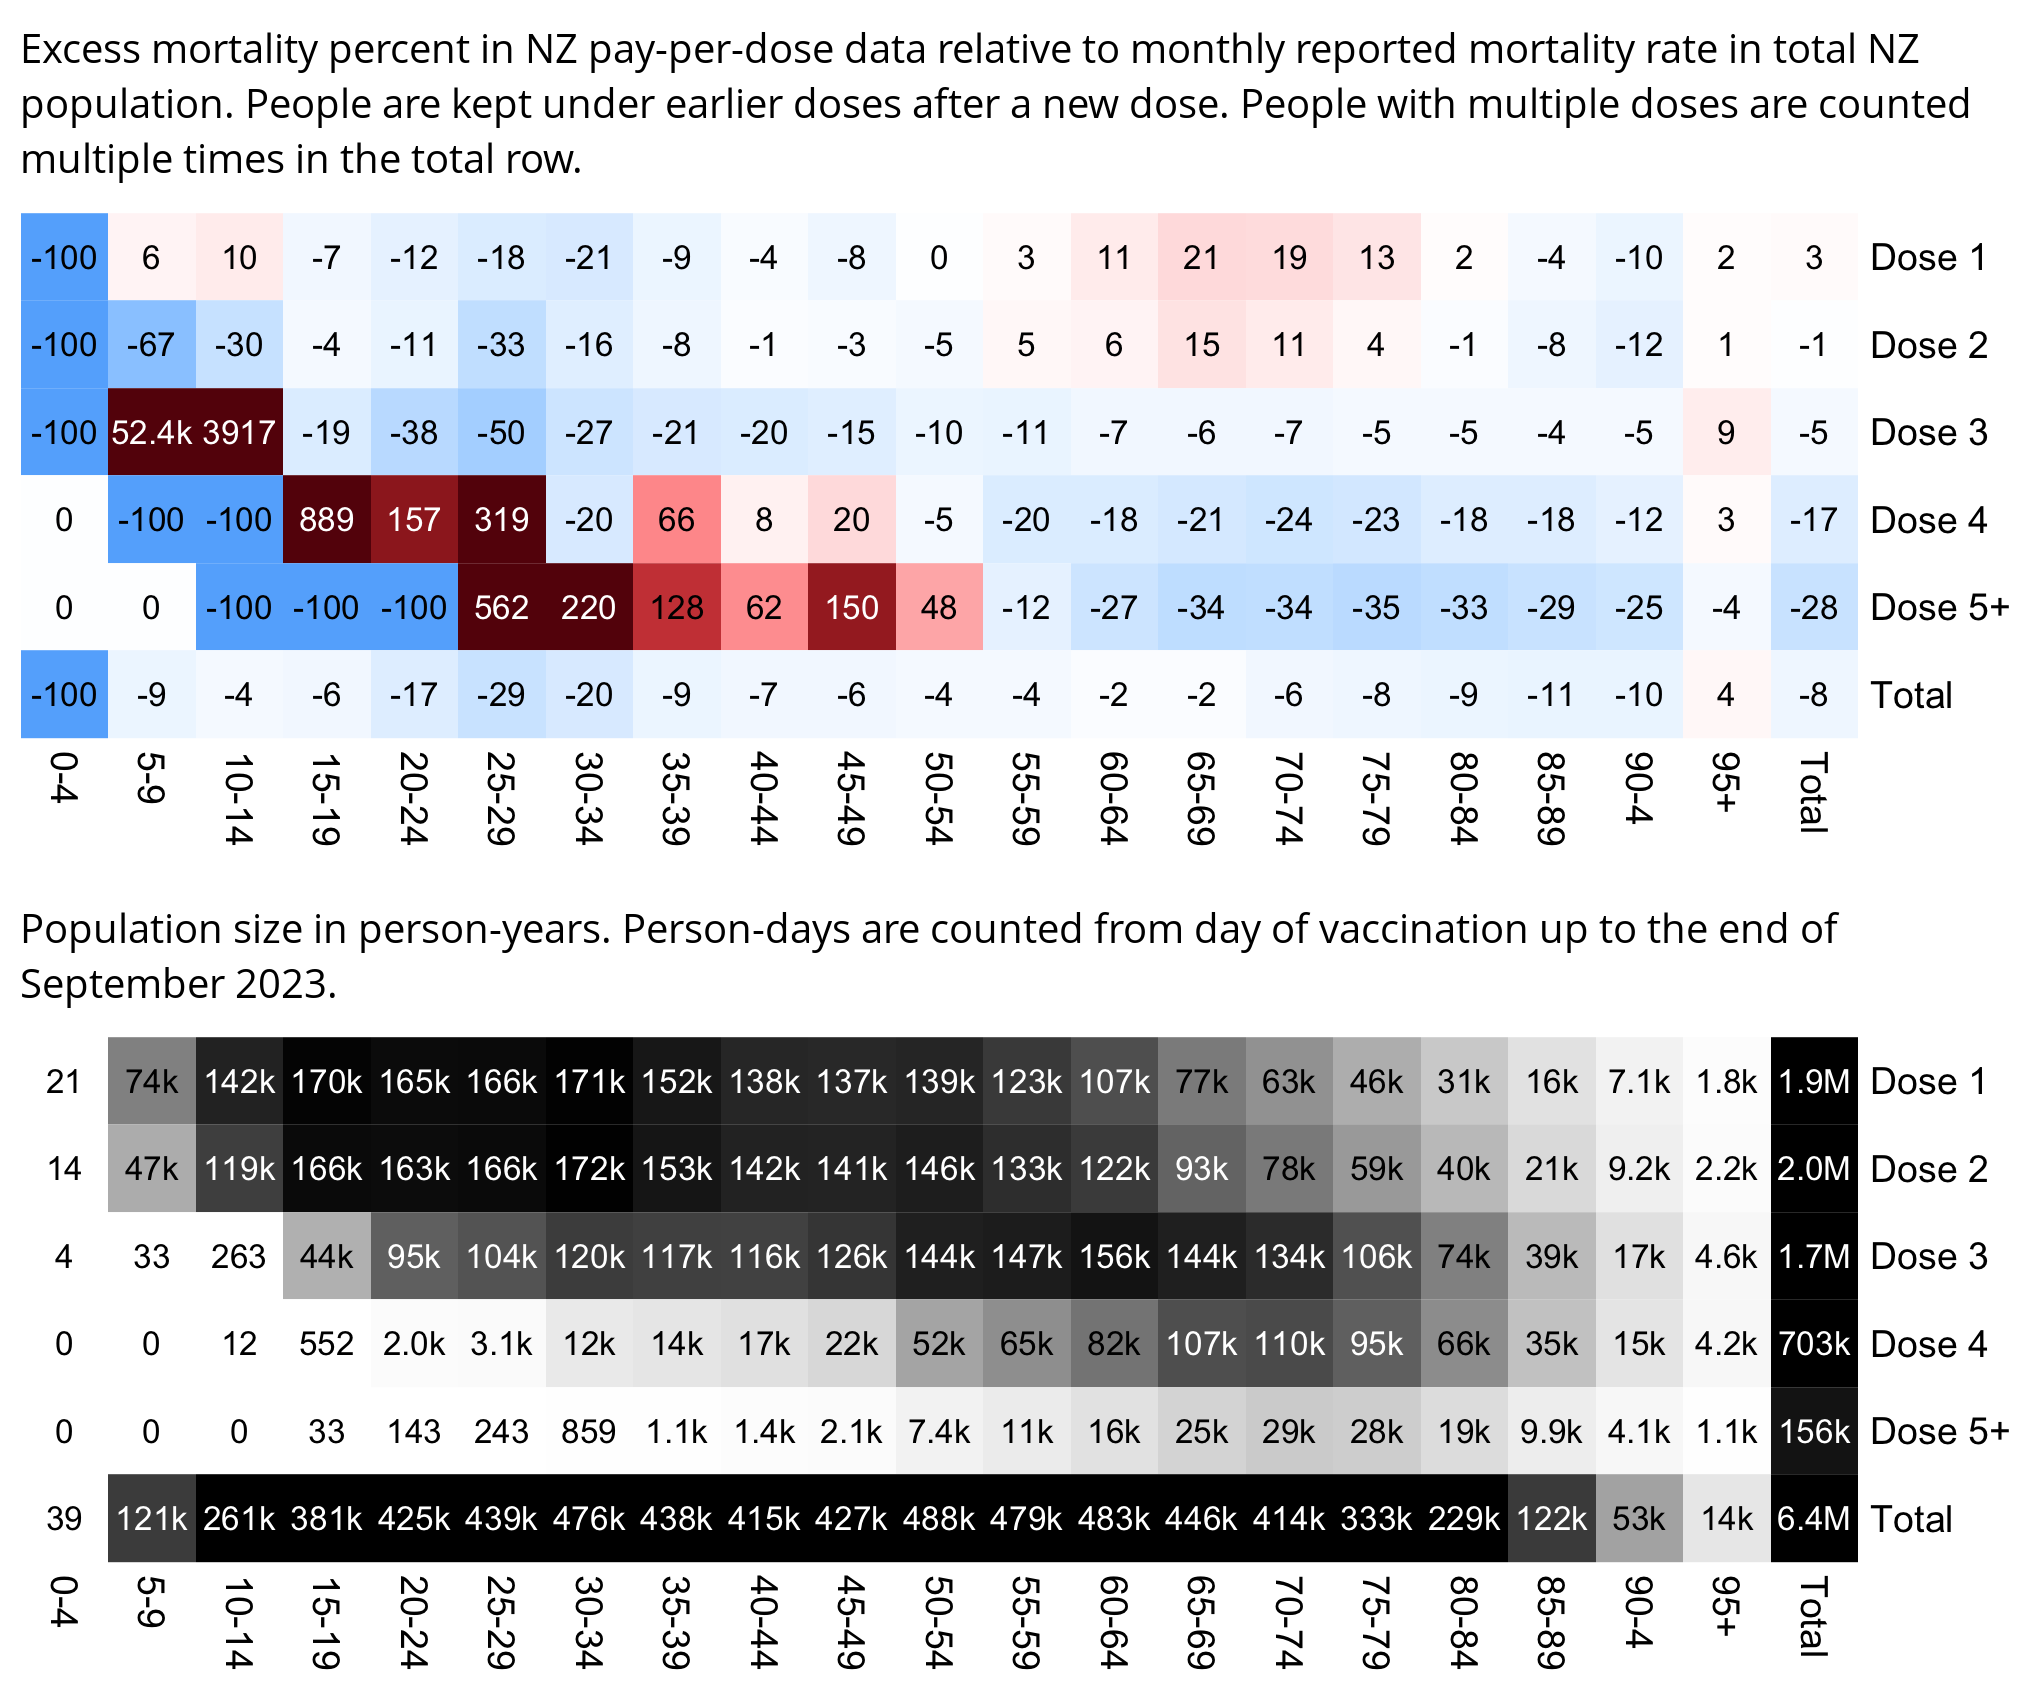
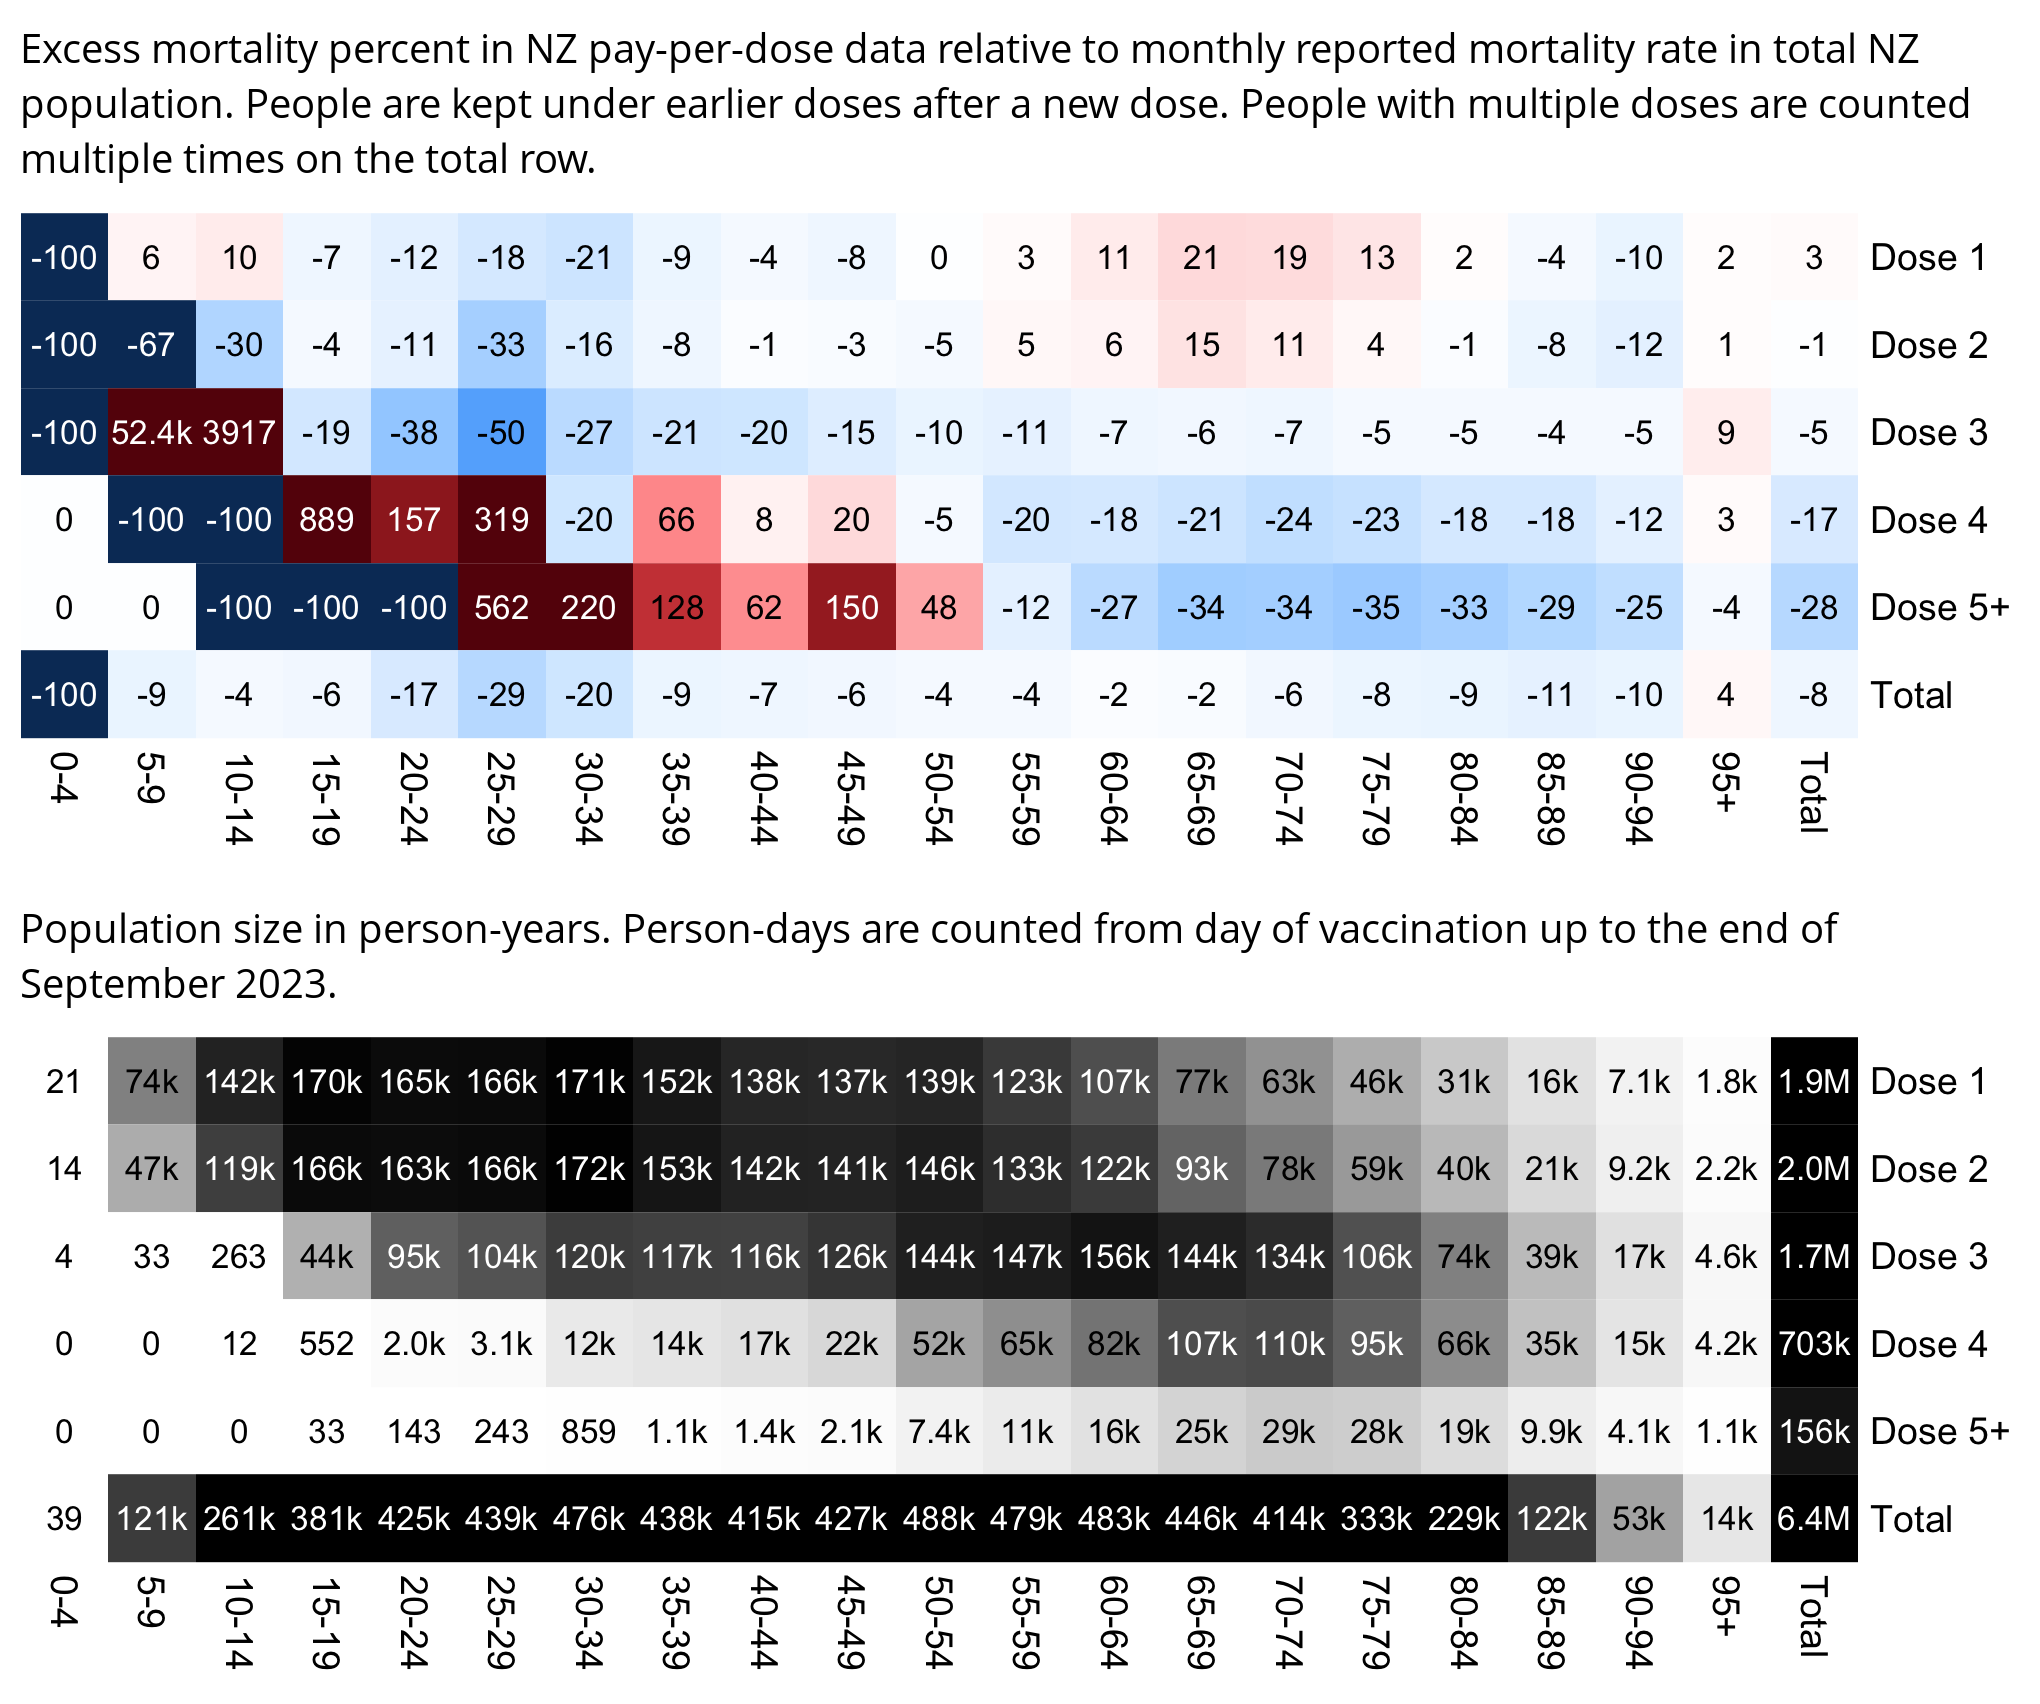
a

diff --git a/moar.html b/moar.html
@@ -5596,26 +5596,28 @@ dailycmr=dead/pop*365*1e5
 download.file(&quot;https://sars2.net/f/bucketskeep.gz&quot;,&quot;bucketskeep.gz&quot;)
 t=data.table::fread(&quot;bucketskeep.gz&quot;,showProgress=F)
 t=t[,.(dead=sum(dead),pop=sum(alive)),by=.(age=factor(pmin(age,95)%/%5*5),dose=paste0(&quot;Dose &quot;,ifelse(dose&gt;=5,&quot;5+&quot;,dose)),date)]
-levels(t$age)=c(paste0(seq(0,90,5),&quot;-&quot;,seq(4,89,5)),&quot;95+&quot;)
+levels(t$age)=c(paste0(seq(0,90,5),&quot;-&quot;,seq(4,94,5)),&quot;95+&quot;)
 t$base=t$pop/365/1e5*dailycmr[cbind(as.integer(t$date)-as.integer(as.Date(&quot;2021-1-2&quot;)),as.integer(t$age))]
 
 t=rbind(t,t[,.(dead=sum(dead),pop=sum(pop),base=sum(base),dose=&quot;Total&quot;),by=.(age,date)])
 t=rbind(t,t[,.(dead=sum(dead),pop=sum(pop),base=sum(base),age=&quot;Total&quot;),by=.(dose,date)])
 t=t[,.(dead=sum(dead),pop=sum(pop),base=sum(base)),by=.(dose,age)]
 
-m=xtabs((dead/base-1)*100~dose+age,t)
-m2=xtabs(pop/365~dose+age,t)
-disp=ifelse(m&gt;1e4,sprintf(&quot;%.1fk&quot;,m/1e3),round(m))
+disp=xtabs((dead/base-1)*100~dose+age,t)
+disp=ifelse(disp&gt;1e4,sprintf(&quot;%.1fk&quot;,disp/1e3),round(disp))
 maxcolor=200
+m=xtabs((dead-base)/ifelse(dead&gt;base,base,dead)*100~dose+age,t)
+m[is.infinite(m)]=-maxcolor
 
 pheatmap::pheatmap(m,filename=&quot;mort0.png&quot;,display_numbers=disp,
   cluster_rows=F,cluster_cols=F,legend=F,cellwidth=21,cellheight=21,fontsize=9,fontsize_number=8,border_color=NA,
-  number_color=ifelse(abs(m)&gt;.7*maxcolor,&quot;white&quot;,&quot;black&quot;),
+  number_color=ifelse(abs(m)&gt;.65*maxcolor,&quot;white&quot;,&quot;black&quot;),
   breaks=seq(-maxcolor,maxcolor,,256),
   colorRampPalette(hex(HSV(c(210,210,210,210,0,0,0,0,0),c(.9,.75,.6,.3,0,.3,.6,.75,.9),c(.4,.65,1,1,1,1,1,.65,.4))))(256))
 
 kimi=\(x){e=floor(log10(ifelse(x==0,1,abs(x))));e2=pmax(e,0)%/%3+1;p=!is.na(x);x[p]=paste0(sprintf(paste0(&quot;%.&quot;,ifelse(e[p]%%3==0,1,0),&quot;f&quot;),x[p]/1e3^(e2[p]-1)),c(&quot;&quot;,&quot;k&quot;,&quot;M&quot;,&quot;B&quot;,&quot;T&quot;)[e2[p]]);x}
 
+m2=xtabs(pop/365~dose+age,t)
 disp2=ifelse(m2&lt;10,round(m2),kimi(m2))
 maxcolor2=max(m2[1:(nrow(m2)-1),1:(ncol(m2)-1)])
 
